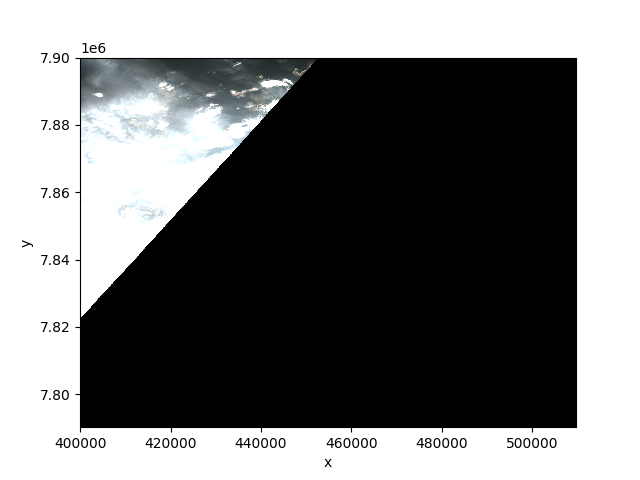
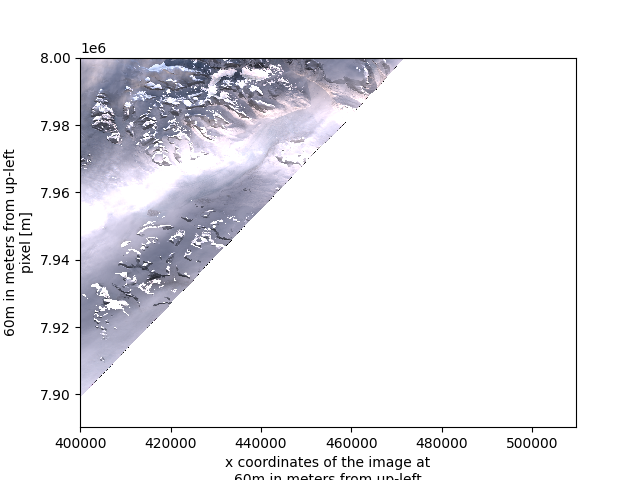
fix(#256): update sentinel-* sections
remove hard-coded IDs
update screenshots

diff --git a/docs/tutorials/stac_zarr/python/eopf_stac_zarr_xarray.md b/docs/tutorials/stac_zarr/python/eopf_stac_zarr_xarray.md
@@ -37,7 +37,7 @@ A Python environment is required to follow this tutorial. This tutorial's depend
 The following dependencies are required to follow this tutorial.
 
 ```sh
-pip install "matplotlib>=3.10.3,<4.0" "pystac-client>=0.8.6,<1.0" "xarray==2025.4.0" "xarray-eopf==0.1.0"
+pip install "matplotlib>=3.10.8,<4.0" "pystac-client>=0.8.6,<1.0" "xarray==2026.2.0" "xarray-eopf==0.2.5"
 ```
 
 ## Access Zarr Assets
@@ -65,14 +65,21 @@ See [STAC Item Zarr Assets](../eopf_stac_item_zarr_assets.md) for STAC item Zarr
 
 ```python
 client = Client.open("https://stac.core.eopf.eodc.eu/")
-collection = client.get_collection(collection_id="sentinel-2-l2a")
-item = collection.get_item(
-    id="S2B_MSIL2A_20250522T125039_N0511_R095_T26TML_20250522T133252"
-)
-assert item is not None, "Expected item does not exist"
+
+# The EOPF sample service occasionally updates which items are available with collections.
+# Perform a search for a recent item rather than hard-coding an item ID that may later
+# become unavailable.
+items = list(client.search(
+    collections=["sentinel-2-l2a"],
+    limit=1,
+    max_items=1,
+    sortby="-datetime"
+).items())
+assert len(items) == 1, "unable to find suitable Sentinel 2 data"
+item = items[0]
 print(
     "Fetched collection/item {collection}/{id}".format(
-        collection=collection.id, id=item.id
+        collection=item.collection_id, id=item.id
     )
 )
 # Fetched collection/item sentinel-2-l2a/S2B_MSIL2A_20250522T125039_N0511_R095_T26TML_20250522T133252
@@ -112,7 +119,7 @@ print(
 
 ### Loading Zarr Datasets Using xarray
 
-Access the top-level Zarr group using xarray. xarray uses lazy-loading to avoid loading the entire 9GB data structure into memory at once and only fetches relevant array chunks when necessary. See [Optimisations](#optimisations) for more information.
+Access the top-level Zarr group using xarray. xarray uses lazy-loading to avoid loading the entire data structure into memory at once and only fetches relevant array chunks when necessary. See [Optimisations](#optimisations) for more information.
 
 ```python
 # The same asset can also be opened as a xarray.Dataset using the same kwargs.
@@ -184,8 +191,9 @@ The following demonstrates that each variable is provided in a 2-dimensional arr
 
 ```python
 print(
-    "All spatial data for this STAC item is in EPSG:{epsg_code} https://epsg.io/{epsg_code}".format(
-        epsg_code=dt.attrs["stac_discovery"]["properties"]["proj:epsg"]
+    "All spatial data for this STAC item is in {epsg_code} https://epsg.io/{code}".format(
+        epsg_code=item.properties["proj:code"],
+        code=str(item.properties["proj:code"]).split(":")[1],
     )
 )
 # All spatial data for this STAC item is in EPSG:32626 https://epsg.io/32626
@@ -228,11 +236,13 @@ This section provides short and complete examples referencing data from each of 
 
 ### Sentinel 1
 
-The following example shows a Wind Direction plot derived from Sentinel 1 data. It is necessary to interpolate data to a spatial grid prior to rendering.
+The following example shows an ocean wind conditions plot derived from Sentinel 1 data. It is necessary to interpolate data to a spatial grid prior to rendering.
+
 
 ```python
 import matplotlib.pyplot as plt
 import numpy as np
+import re
 import xarray as xr
 from pystac import Asset
 from pystac_client import Client
@@ -242,17 +252,32 @@ from scipy.interpolate import griddata
 # this is expected to be a future requirement.
 
 client = Client.open("https://stac.core.eopf.eodc.eu/")
-collection = client.get_collection(collection_id="sentinel-1-l2-ocn")
-item = collection.get_item(
-    id="S1A_IW_OCN__2SDV_20250604T193923_20250604T193948_059501_0762FA_C971"
-)
+
+# The EOPF sample service occasionally updates which items are available with collections.
+# Perform a search for a recent item rather than hard-coding an item ID that may later
+# become unavailable.
+items = list(client.search(
+    collections=["sentinel-1-l2-ocn"],
+    limit=1,
+    max_items=1,
+    sortby="-datetime"
+).items())
+assert len(items) == 1, "unable to find suitable Sentinel 1 data"
+item = items[0]
 product_asset: Asset = item.assets["product"]
 dt = xr.open_datatree(
     product_asset.href, **product_asset.extra_fields["xarray:open_datatree_kwargs"]
 )
-ds = dt[
-    "/owi/S01SIWOCN_20250604T193923_0025_A340_C971_0762FA_VV/measurements"
-].to_dataset()
+
+# Because we cannot guarantee which item is available we also cannot guarantee
+# the names of some Zarr groups that include the item's ID in the name.
+# Use a basic regular expression to match suitable group names.
+group_name_regex = "^/owi/.+/measurements$"
+matching_group_names = [key for key in dt.groups if re.match(group_name_regex, key)]
+assert len(matching_group_names) == 1, "unexpected group name match"
+group_name = matching_group_names[0]
+ds = dt[group_name].to_dataset()
+
 # Measurements DataArrays do not have (latitude, longitude) dimensions and
 # instead use (azimuth, range) dimensions to record data positions.
 # Latitude and longitude are available as coordinates, and are functions of
@@ -292,15 +317,15 @@ gridded_dataarray.plot(x=longitude_dim_name, y=latitude_dim_name)
 plt.show()
 ```
 
-#### Result
+#### Example Result
 
-![Sentinel 1 Wind Direction Plot](./images/sentinel-1.png "Sentinel 1 Wind Direction Plot")
+![Sample Sentinel 1 Wind Direction Plot](./images/sentinel-1.png "Sample Sentinel 1 Wind Direction Plot")
 
 ### Sentinel 2
 
 The [Access Zarr Assets](#access-zarr-assets) section addresses Sentinel 2 data but does not result in a plot. This section provides an additional example consistent with the examples for Sentinel 1 and Sentinel 3.
 
-The following example shows a TCI (True Colour Image) plot derived from Sentinel 2 data.
+The following example shows an RGB image plot derived from Sentinel 2 data. EOPF Sentinel 2 data no longer provides a "quicklook" True Colour Image (TCI) array so we must construct an RGB plot ourselves.
 
 ```python
 import matplotlib.pyplot as plt
@@ -312,86 +337,86 @@ from pystac_client import Client
 # this is expected to be a future requirement.
 
 client = Client.open("https://stac.core.eopf.eodc.eu/")
-collection = client.get_collection(collection_id="sentinel-2-l2a")
-item = collection.get_item(
-    id="S2A_MSIL2A_20250605T104701_N0511_R051_T35WMU_20250605T125416"
-)
+
+# The EOPF sample service occasionally updates which items are available with collections.
+# Perform a search for a recent item rather than hard-coding an item ID that may later
+# become unavailable.
+items = list(client.search(
+    collections=["sentinel-2-l2a"],
+    limit=1,
+    max_items=1,
+    sortby="-datetime"
+).items())
+assert len(items) == 1, "unable to find suitable Sentinel 2 data"
+item = items[0]
+
 product_asset: Asset = item.assets["product"]
 dt = xr.open_datatree(
     product_asset.href, **product_asset.extra_fields["xarray:open_datatree_kwargs"]
 )
-ds = dt["/quality/l2a_quicklook/r60m"].to_dataset()
-da = ds["tci"]
-da.plot.imshow(rgb="band")
+ds = dt["/measurements/reflectance/r60m"].to_dataset()
+rgb = ds[["b04", "b03", "b02"]].to_array(dim="band")
+rgb.plot.imshow(rgb="band")
 plt.show()
 ```
 
 #### Result
 
-![Sentinel 2 TCI Plot](./images/sentinel-2.png "Sentinel 2 TCI Plot")
+![Sample Sentinel 2 RGB Plot](./images/sentinel-2.png "Sample Sentinel 2 RGB Plot")
 
 ### Sentinel 3
 
-The following example shows a GIFAPAR (Green Instantaneous Fraction of Absorbed Photosynthetically Active Radiation) plot from Sentinel 3 data. It is necessary to interpolate data to a spatial grid prior to rendering.
+The following example shows a GIFAPAR (Green Instantaneous Fraction of Absorbed Photosynthetically Active Radiation) plot from Sentinel 3 data.
+
+It may skip several STAC items before finding an item with sufficient valid pixel values for a useful example.
 
 ```python
 import matplotlib.pyplot as plt
-import numpy as np
 import xarray as xr
 from pystac import Asset
 from pystac_client import Client
-from scipy.interpolate import griddata
 
 # The sample EOPF STAC API does not currently require authentication but
 # this is expected to be a future requirement.
 
 client = Client.open("https://stac.core.eopf.eodc.eu/")
-collection = client.get_collection(collection_id="sentinel-3-olci-l2-lfr")
-item = collection.get_item(
-    id="S3A_OL_2_LFR____20250605T102430_20250605T102730_20250605T122455_0179_126_336_2160_PS1_O_NR_003"
-)
-product_asset: Asset = item.assets["product"]
-dt = xr.open_datatree(
-    product_asset.href, **product_asset.extra_fields["xarray:open_datatree_kwargs"]
-)
-ds = dt["/measurements"]
-# Measurements DataArrays do not have (latitude, longitude) dimensions and
-# instead use (rows, columns) dimensions to record data positions.
-# Latitude and longitude are available as coordinates, and are functions of
-# (rows, columns), but this configuration is not compatible with matplotlib.
-# To plot measurements with a 2D chart we first must interpolate values to
-# a 2D grid. For simplicity in this example we use unprojected latitude and
-# longitude values rather than projecting to a more suitable projected
-# spatial reference system.
-latitudes_np = np.array(ds.latitude.values)
-longitudes_np = np.array(ds.longitude.values)
-lat_min, lat_max = np.nanmin(latitudes_np), np.nanmax(latitudes_np)
-lon_min, lon_max = np.nanmin(longitudes_np), np.nanmax(longitudes_np)
-grid_resolution = 0.01
-lat_grid = np.arange(lat_min, lat_max + grid_resolution, grid_resolution)
-lon_grid = np.arange(lon_min, lon_max + grid_resolution, grid_resolution)
-lon_mesh, lat_mesh = np.meshgrid(lon_grid, lat_grid)
-measurement_name = "gifapar"
-latitude_dim_name = "latitude"
-longitude_dim_name = "longitude"
-gridded_interpolated_values = griddata(
-    np.column_stack((latitudes_np.flatten(), longitudes_np.flatten())),
-    np.array(ds[measurement_name].values).flatten(),
-    (lat_mesh, lon_mesh),
-    method="linear",
-)
-gridded_dataarray = xr.Dataset(
-    data_vars={
-        measurement_name: (
-            [latitude_dim_name, longitude_dim_name],
-            gridded_interpolated_values,
-        )
-    },
-    coords={latitude_dim_name: lat_grid, longitude_dim_name: lon_grid},
-)[measurement_name]
 
-gridded_dataarray.plot(x=longitude_dim_name, y=latitude_dim_name)
-plt.show()
+# The EOPF sample service occasionally updates which items are available with collections.
+# Perform a search for a recent item rather than hard-coding an item ID that may later
+# become unavailable.
+item_limit = 100
+items = list(client.search(
+    collections=["sentinel-3-olci-l2-lfr"],
+    limit=100,
+    max_items=item_limit,
+    sortby="-datetime"
+).items())
+
+# Some STAC items' data arrays have too little data to display a plot.
+# Ensure at least 5% non-NaN values before attempting to display.
+measurement_name = "gifapar"
+for item in items:
+    product_asset: Asset = item.assets["product"]
+    dt = xr.open_datatree(
+        product_asset.href, **product_asset.extra_fields["xarray:open_datatree_kwargs"]
+    )
+    ds = dt["/measurements"]
+
+    nan_count = ds[measurement_name].isnull().sum().compute().item()
+    non_nan_count = ds[measurement_name].notnull().sum().compute().item()
+    if non_nan_count / (non_nan_count + nan_count) > 0.05:
+        print(f"sufficient data values found in item {item.id}, rendering")
+        ds[measurement_name].plot(x="longitude", y="latitude")
+        plt.show()
+        exit(0)
+    else:
+        print(f" skipping item due to insufficient data values {item.id}")
+
+# Process exits before this point if sufficient data discovered.
+print("unable to find sufficient {measurement} data in {count} item(s)".format(
+    measurement=measurement_name,
+    count=item_limit,
+))
 ```
 
 #### Result
@@ -406,7 +431,7 @@ The Zarr data format is optimised for efficient data retrieval. Array data are s
 
 ### Comparable SAFE Example
 
-The following example accesses the same 60 metre True Colour Image via SAFE as is accessed via EOPF Zarr with xarray in the [Sentinel 2 mission example](#sentinel-2). The EOPF Zarr example downloads fewer bytes and requires fewer lines of code.
+The following example accesses a 60 metre True Colour Image via SAFE that is comparable to the RGB image generated from an EOPF Zarr with xarray in the [Sentinel 2 mission example](#sentinel-2). The EOPF Zarr example downloads fewer bytes and requires fewer lines of code.
 
 > [!NOTE]
 > This example requires authentication via credentials stored in environment variables.
@@ -441,24 +466,32 @@ headers = {
     "Authorization": f"Bearer {auth_token}",
 }
 
-client = Client.open("https://catalogue.dataspace.copernicus.eu/stac/")
-collection = client.get_collection(collection_id="SENTINEL-2")
-item = collection.get_item(
-    id="S2A_MSIL2A_20250605T104701_N0511_R051_T35WMU_20250605T125416.SAFE"
-)
-assert item is not None, "failed to fetch item"
-# The asset's href redirects to a download location. Determine this location manually
-# so that the "Authorization: Bearer ..." header is not stripped from the redirected request.
-target_href = requests.get(
-    item.assets["PRODUCT"].href, headers=headers, allow_redirects=False
-).headers["Location"]
+client = Client.open("https://stac.dataspace.copernicus.eu/v1/")
+
+# The EOPF sample service occasionally updates which items are available with collections.
+# Perform a search for a recent item rather than hard-coding an item ID that may later
+# become unavailable.
+items = list(client.search(
+    collections=["sentinel-2-l2a"],
+    limit=1,
+    max_items=1,
+    sortby="-datetime"
+).items())
+assert len(items) == 1, "unable to find suitable Sentinel 2 data"
+item = items[0]
+target_href = item.assets["Product"].href
+
 # Download the entire zip archive for the scene.
 tmp_dir_path = tempfile.mkdtemp()
 zip_path = os.path.join(tmp_dir_path, f"{item.id}.zip")
 print(f"Downloading {target_href}")
 # Downloading https://download.dataspace.copernicus.eu/odata/v1/Products(74252cb9-3567-4a49-8892-40f3a80ac52e)/$value
 with open(zip_path, "wb") as f:
-    for chunk in requests.get(target_href, headers=headers, stream=True).iter_content(
+    for chunk in requests.get(
+        target_href,
+        headers=headers,
+        stream=True
+    ).iter_content(
         chunk_size=1000000
     ):
         print(".", end="")
@@ -470,14 +503,15 @@ for entry in archive.namelist():
     archive.extract(entry, tmp_dir_path)
 
 # Determine the file path to the TCI 60m data using the XML manifest and open that file.
-xml_manifest_path = os.path.join(tmp_dir_path, item.id, "manifest.safe")
+extracted_data_dir = os.path.join(tmp_dir_path, f"{item.id}.SAFE")
+xml_manifest_path = os.path.join(extracted_data_dir, "manifest.safe")
 xml_tree = ET.parse(xml_manifest_path)
 file_location_element = xml_tree.getroot().find(
     ".//dataObject[@ID='IMG_DATA_Band_TCI_60m_Tile1_Data']/byteStream/fileLocation"
 )
 assert file_location_element is not None, "failed to find TCI 60m data"
 tci_60m_file_path = os.path.join(
-    tmp_dir_path, item.id, file_location_element.get("href")
+    extracted_data_dir, file_location_element.get("href")
 )
 
 # Show data on screen.
@@ -487,9 +521,9 @@ plt.show()
 
 ### Data Retrieval and Network Efficiency
 
-The [SAFE example](#comparable-safe-example) downloads a 170 MB zip archive file, extracts it to a temporary location, and ultimately only accesses 0.45 MB of that data. 99.7% of fetched data are unused in this example. Other use-cases may download smaller archives, or use more of the archive's data, but in many use-cases it is likely that significant network bandwidth and storage are wasted.
+The [SAFE example](#comparable-safe-example) has been observed downloading a 170 MB zip archive file. The zip archive was extracted to a temporary location, and ultimately only around 0.45 MB of that data were accessed. 99.7% of fetched data were unused in this example. Other use-cases may download smaller archives, or use more of the archive's data, but in many use-cases it is likely that significant network bandwidth and storage are wasted.
 
-The EOPF Zarr [Sentinel 2 mission example](#sentinel-2) is more efficient. When accessing the EOPF Product asset as a `xarray.DataTree` type, xarray requests the asset's `.zmetadata` consolidated metadata file and the first compressed chunk of each array. This process downloads 0.61 MB. When the TCI plot is shown, xarray lazy-loads a further 0.63 MB of array data. In total only 1.24 MB of data are downloaded. If TCI array data were loaded directly from the relevant STAC item asset href as a `xarray.DataArray` type, and not from a larger `xarray.DataTree` type, the initial 0.61 MB would not be required. This comparison demonstrates the innate network and storage efficiencies of cloud-native data structures.
+The EOPF Zarr [Sentinel 2 mission example](#sentinel-2) is more efficient. When accessing the EOPF Product asset as a `xarray.DataTree` type, xarray requests the asset's `.zmetadata` consolidated metadata file and the first compressed chunk of each array. This process has been observed downloading 0.61 MB. When the RGB plot was shown, xarray lazy-loaded a further 0.63 MB of array data. In total only 1.24 MB of data were downloaded. If TCI array data were loaded directly from the relevant STAC item asset href as a `xarray.DataArray` type, and not from a larger `xarray.DataTree` type, the initial 0.61 MB would not be required. This comparison demonstrates the innate network and storage efficiencies of cloud-native data structures.
 
 ### Optimisations
 
